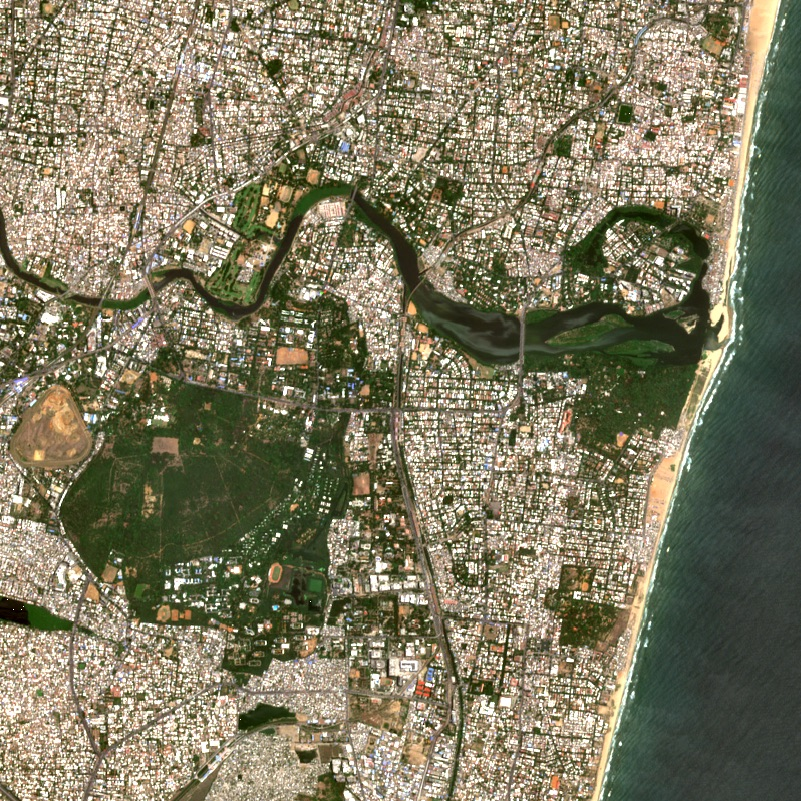
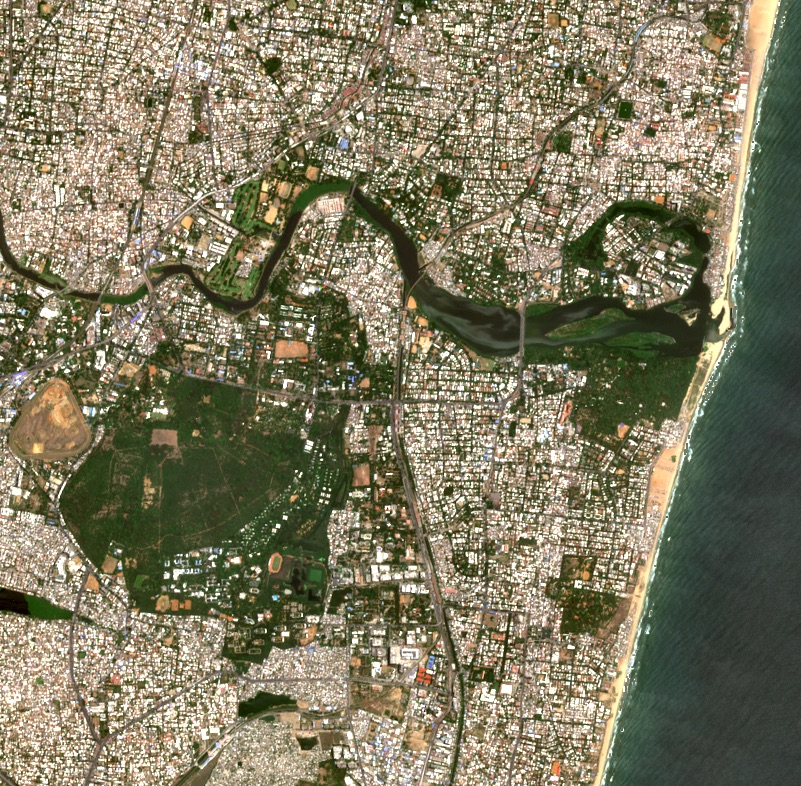
fix(waterways): Mahabalipuram site view - clearest-pixel mosaics for all sites
The single-clearest-scene approach left the Mahabalipuram chip mostly
void: the 8 km region straddles a Sentinel-2 orbit-swath edge, so the
chosen granule only touched its western sliver. Site chips are now
clearest-pixel mosaics (each pixel from the least-cloudy scene that saw
it - single-scene crispness, full coverage, no averaging), and every
caption drops the single-date claim for the honest one: clearest-pixel
composite, Jun-Aug 2026.

diff --git a/src/app/waterways/[waterwayId]/story-view.tsx b/src/app/waterways/[waterwayId]/story-view.tsx
@@ -106,8 +106,8 @@ function ChapterVisual({
       />
       <figcaption className="mt-1 text-[11px] text-muted-foreground">
         Sentinel-2, 10 m per pixel: each dot is a 10 m square. Site views
-        are a single clear scene (15 Jul 2026), about 8 km across; segment
-        views are a Jun–Aug 2026 composite. Contains modified Copernicus Sentinel data (2026).
+        are a clearest-pixel composite (Jun–Aug 2026), about 8 km across;
+        segment views are a median composite of the same window. Contains modified Copernicus Sentinel data (2026).
       </figcaption>
     </figure>
   );

diff --git a/src/app/waterways/[waterwayId]/explorer-view.tsx b/src/app/waterways/[waterwayId]/explorer-view.tsx
@@ -272,8 +272,8 @@ export function ExplorerView({
             </div>
             <p className="mt-1 text-[11px] text-muted-foreground">
               Building footprints: Google Open Buildings v3 (CC BY-4.0).
-              Displayed at native resolution. Site views: single clear scene,
-              15 Jul 2026, ~8 km across; segment views:
+              Displayed at native resolution. Site views: clearest-pixel
+              composite, ~8 km across; segment views:
               Jun–Aug 2026 composite. Contains modified Copernicus Sentinel
               data (2026).
             </p>

diff --git a/scripts/build_waterway_buckingham.py b/scripts/build_waterway_buckingham.py
@@ -168,7 +168,7 @@ for value, label, source, date, flag in [
                         "date": date, "flag": flag, "claim_id": cid})
 
 today = {
-    "as_of": "Sentinel-2 window 1 Jun - 18 Aug 2026; site scenes 15 Jul 2026",
+    "as_of": "Sentinel-2 window 1 Jun - 18 Aug 2026 (clearest-pixel composites)",
     "tiles": today_tiles,
     "strip": runs,
     "veg_by_reach": [{"reach_id": k, "veg_ha": v} for k, v in sorted(veg_area.items())],
